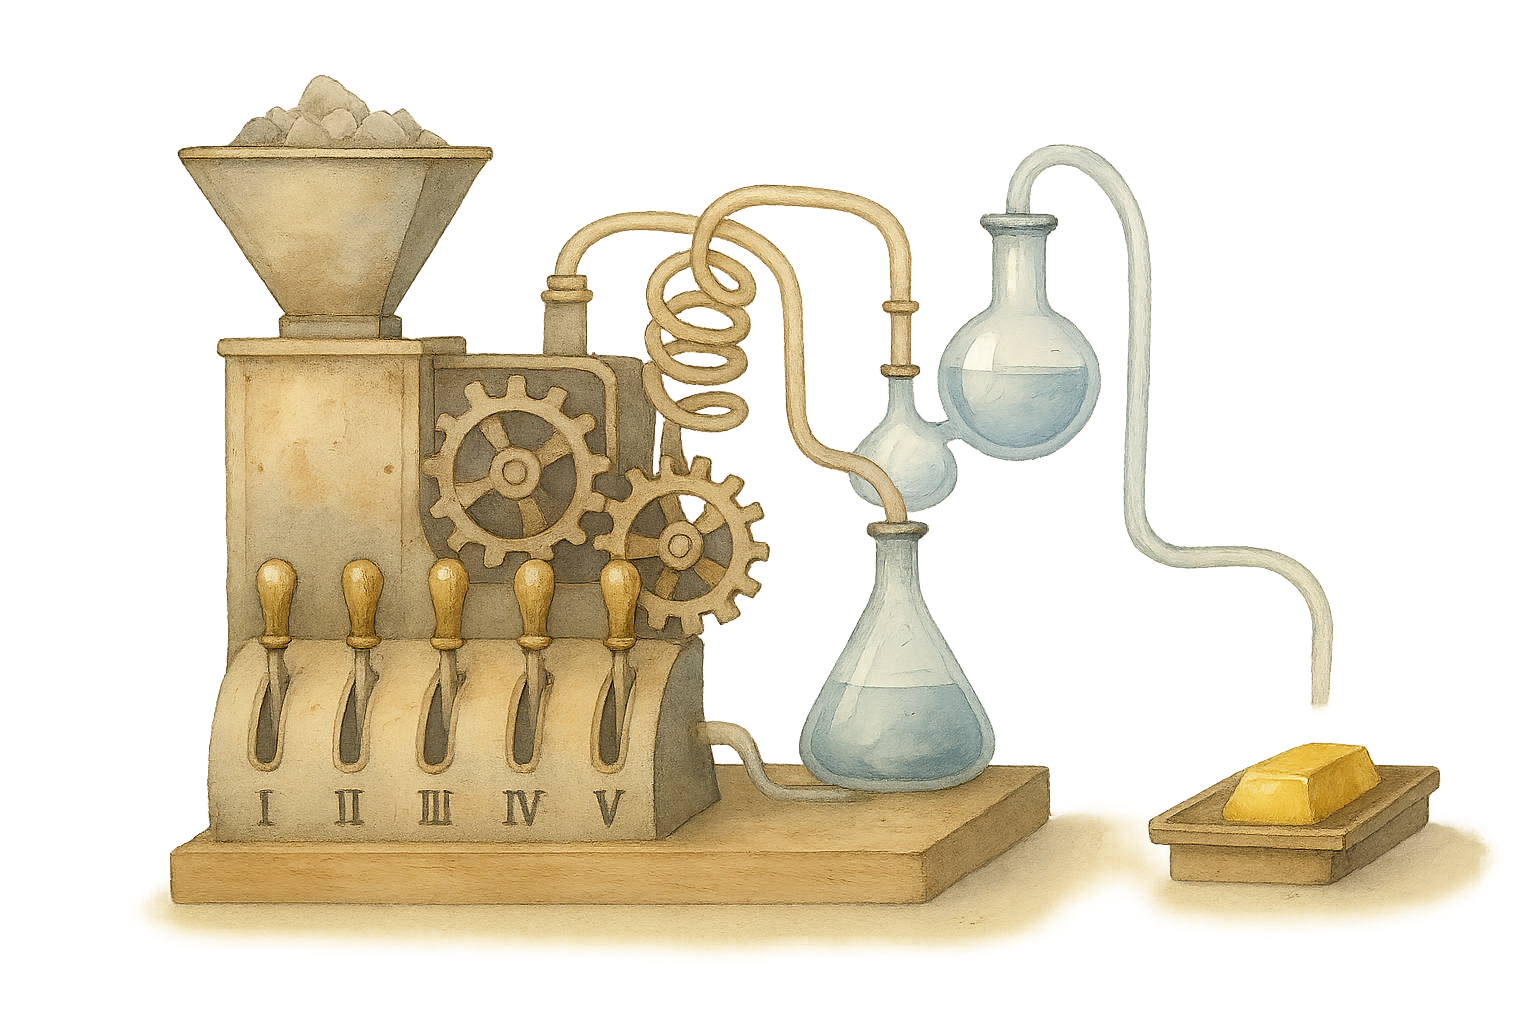
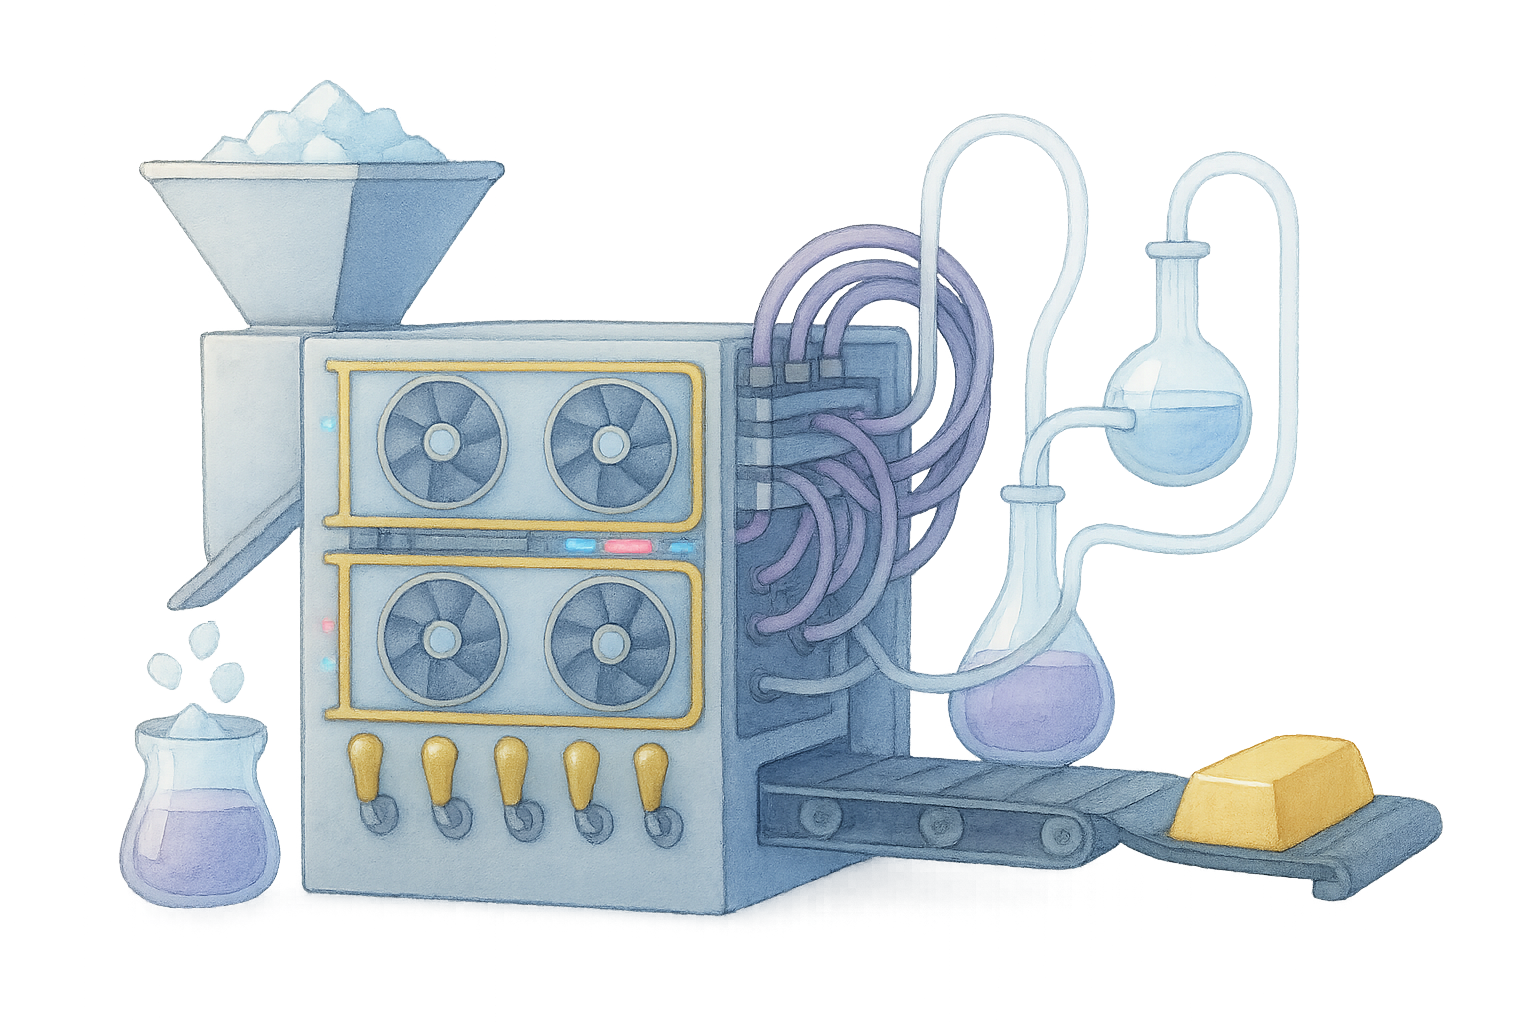
Create what we do page and strengthen imagery

diff --git a/src/static/css/what.css b/src/static/css/what.css
@@ -1,0 +1,66 @@
+/* What We Do — brand-consistent hero section
+   (uses your existing tokens: --paper, --ink, --muted, --accent-grad, --pad) */
+
+.wwd {
+  color: var(--ink);
+  /* Remove padding-block as it's redundant with individual paddings */
+  min-height: calc(100vh - var(--header-h, 0px));
+  display: flex;  /* Change from grid to flex */
+  flex-direction: column;
+  align-items: center;
+  gap: 1.5rem;    /* Use a smaller fixed gap */
+  padding-top: clamp(12px, 2.4vh, 20px);
+  padding-bottom: clamp(20px, 3.6vh, 32px);
+}
+
+/* Centered, chunky H1 (same weight/scale you’ve been using) */
+.wwd-title {
+  margin: 0;
+  text-align: center;
+  font-weight: 800;
+  letter-spacing: -0.01em;
+  line-height: 1.05;
+  font-size: clamp(32px, 6vw, 56px);
+}
+
+/* Hero sits nicely in the middle row */
+.wwd-hero {
+  margin: 1rem 0;  /* Add some specific margin */
+  display: flex;
+  justify-content: center;
+}
+
+/* Watercolor hero sizing matches your other pages */
+.wwd-art {
+  display:block;
+  width: min(560px, 46vw);   /* was min(780px, 62vw) */
+  max-height: 38vh;          /* was ~52vh */
+  height: auto;
+  object-fit: contain;
+  filter: saturate(.9) contrast(1.03);
+  pointer-events: none;
+  user-select: none;
+}
+
+/* Lede paragraph — centered, comfortable line length */
+.wwd-lede {
+  max-width: 62ch;
+  text-align: left !important;          /* was center */
+  color: var(--muted);
+  font-size: clamp(15px, 1.9vw, 18px);
+  line-height: 1.6;
+  margin: 0.5rem auto;
+}
+
+/* Responsive: allow natural page scroll on smaller screens */
+@media (max-width: 980px) {
+  .wwd {
+    min-height: auto;
+    grid-template-rows: auto auto auto;
+    gap: clamp(14px, 3vh, 20px);
+  }
+  .wwd-art{
+    width: min(520px, 80vw);
+    max-height: 34vh;
+  }
+}

diff --git a/src/pages/What.jsx b/src/pages/What.jsx
@@ -1,3 +1,33 @@
-export default function What() {
-  return <h1>What We Do</h1>;
+import React from "react";
+import "../static/css/what.css";
+
+// reuse an existing brand hero (swap if you prefer)
+import heroFlask from "../static/img/ai-agents.png";
+
+export default function WhatWeDo() {
+  return (
+    <section className="wwd container" role="main">
+      <h1 className="wwd-title">What We Do</h1>
+
+      <figure className="wwd-hero">
+        <img
+          className="wwd-art"
+          src={heroFlask}
+          alt="A watercolor flask with a rising golden plume"
+          loading="eager"
+          decoding="async"
+          fetchpriority="high"
+        />
+      </figure>
+
+      <p className="wwd-lede">
+        We are technology alchemists. It’s that simple. We take challenges, obstacles and blockers, apply our formula of
+        technology, expertise, insight and imagination, and turn your challenges into growth/value. 
+      </p>
+
+      <p className="wwd-lede">It’s simple. But it’s not easy. </p>
+
+      <p className="wwd-lede">That’s why we only utilise the very best people.</p> 
+    </section>
+  );
 }

diff --git a/src/pages/About.jsx b/src/pages/About.jsx
@@ -1,6 +1,6 @@
 import React, { useState, useEffect, useCallback, useRef } from 'react';
 import '../static/css/about.css';
-import mission from '../static/img/transmutation.png';
+import mission from '../static/img/team.png';
 
 import laura from '../static/img/laura.png';
 import james from '../static/img/james.png';
@@ -64,7 +64,7 @@ export default function About() {
           <div className="media-frame">
             <img src={mission} alt="The Volanto lab mission illustration" />
           </div>
-          <h2 className="subhead">Our Company</h2>
+          <h2 className="subhead">Our Culture</h2>
           <p className="mission-lede">
             We are a boutique team of heavy hitting, A+ personalities, driven to take any challenge and find the silver lining.
             Oh wait, I mean the gold of course.

diff --git a/src/components/Header.jsx b/src/components/Header.jsx
@@ -41,7 +41,7 @@ export default function Header() {
         >
           <NavLink to="/about" className={navCls} onClick={close}>Who We Are</NavLink>
           <NavLink to="/what" className={navCls} onClick={close}>What We Do</NavLink>
-          <NavLink to="/who" className={navCls} onClick={close}>Who We're For</NavLink>
+          <NavLink to="/who" className={navCls} onClick={close}>Who We Help</NavLink>
           <NavLink to="/why" className={navCls} onClick={close}>Why We're Different</NavLink>
           <NavLink to="/how" className={navCls} onClick={close}>How We Work</NavLink>
           <NavLink to="/connect" className={ctaCls} onClick={close}>Connect</NavLink>

diff --git a/src/pages/Why.jsx b/src/pages/Why.jsx
@@ -1,8 +1,8 @@
 import React from "react";
 import '../static/css/why.css';
 // Drop your artwork in /static/img (PNG/SVG both fine)
-import whyTree from "../static/img/why-path.png";
-import notFitRoad from "../static/img/why-not-path.png";
+import whyTree from "../static/img/with-volanto.png";
+import notFitRoad from "../static/img/without-volanto.png";
 
 function Point({ children, tone = "pro" }) {
   return <li className={`why-point ${tone}`}>{children}</li>;

diff --git a/src/pages/How.jsx b/src/pages/How.jsx
@@ -7,7 +7,7 @@ import machine from "../static/img/transmutation-machine.png";
 
 // Step icons (PNG)
 import distilPng from "../static/img/distillation.png";
-import illuminatePng from "../static/img/illumination.png";
+import illuminatePng from "../static/img/lighthouse.png";
 import synthesisePng from "../static/img/synthesis.png";
 import transformPng from "../static/img/transformation.png";
 

diff --git a/src/pages/Home.jsx b/src/pages/Home.jsx
@@ -9,7 +9,9 @@ export default function Home() {
         {/* LEFT: headline + lede + CTA */}
         <div className="v-copy">
           <h1 id="v-hero-title" className="v-title">
-            Volanto are the technology
+            Volanto:
+            <br className="br-md" />
+            the technology
             <br className="br-md" />
             alchemists
           </h1>
